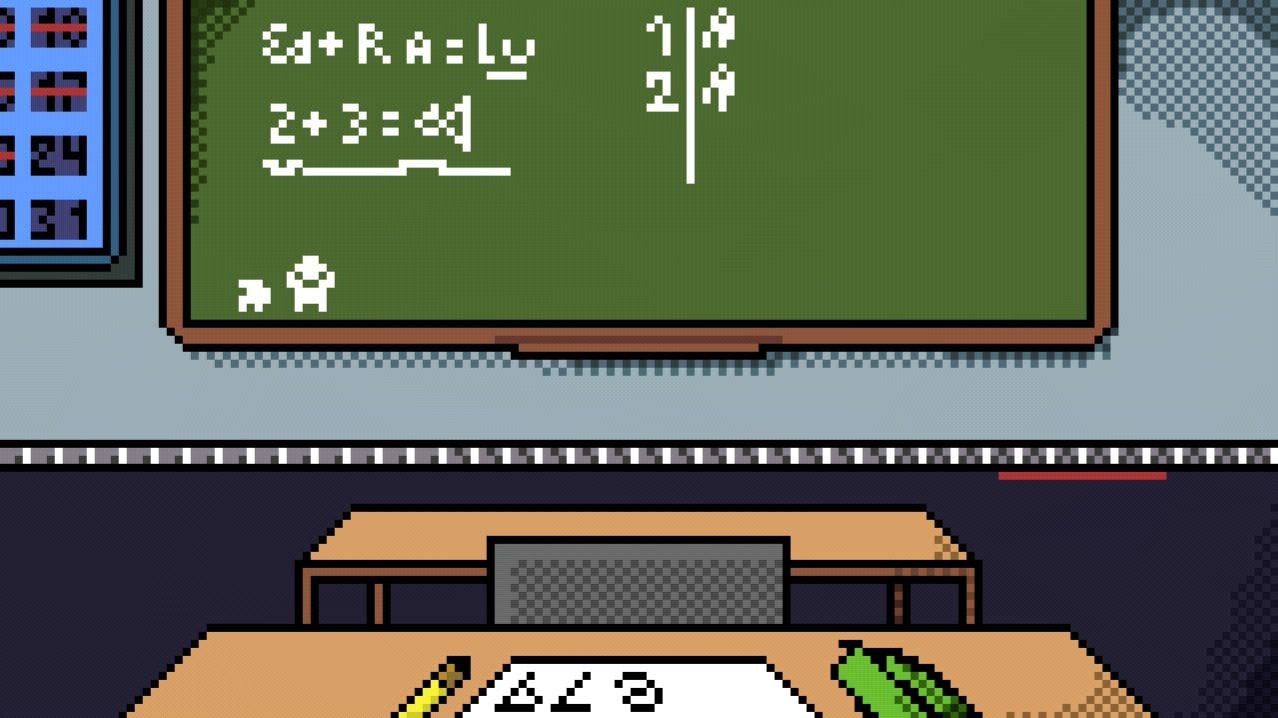
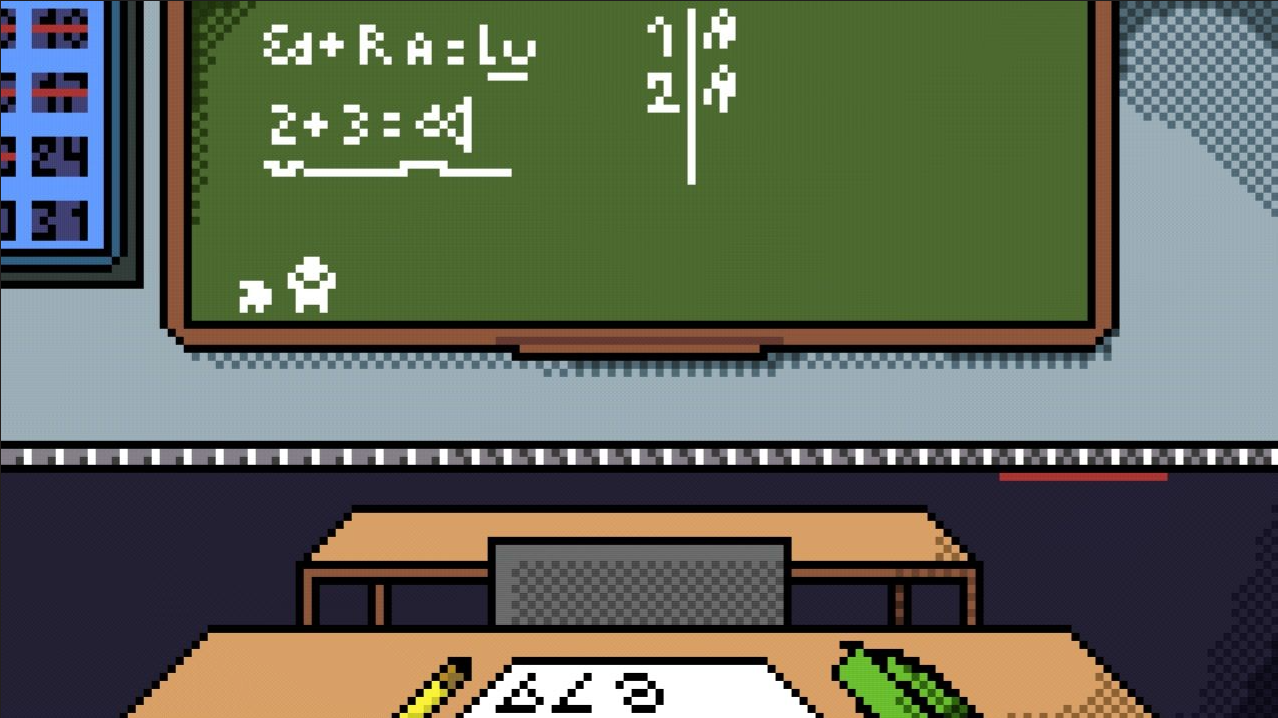
Ajeitei a tela

diff --git a/GAME/src/main.c b/GAME/src/main.c
@@ -1,32 +1,66 @@
 #include "raylib.h"
 #include "sala_de_aula.h"
 
-int main(void) {
+// Funções matemáticas simples para descobrirmos o tamanho do monitor
+#define MAX(a, b) ((a)>(b)? (a) : (b))
+#define MIN(a, b) ((a)<(b)? (a) : (b))
 
-    // Inicializa a janela real do monitor
-    InitWindow(1920, 1080, "Jogo Principal - Sala de Aula");
+int main(void) {
+    // 1. Avisa a Raylib que a janela pode ser redimensionada e deve abrir maximizada
+    SetConfigFlags(FLAG_WINDOW_RESIZABLE | FLAG_WINDOW_MAXIMIZED);
+
+    // 2. Inicia a janela com um tamanho seguro. Como mandamos maximizar, ela vai se
+    //    adaptar sozinha à resolução nativa do monitor de quem abrir o jogo.
+    InitWindow(1280, 720, "Jogo Principal - Sala de Aula");
     SetTargetFPS(60);
 
-    // Inicializa o estado completo da sala de aula.
-    // Aqui passamos a dificuldade da professora (1 = Fácil, 2 = Médio, 3 = Difícil)
+    // 3. A MÁGICA: O "Canvas" Virtual (O jogo acha que é 1080p para sempre)
+    int virtualWidth = 1920;
+    int virtualHeight = 1080;
+    RenderTexture2D canvas = LoadRenderTexture(virtualWidth, virtualHeight);
+
+    // Inicializa a sala de aula normalmente
     InitSalaDeAula(2); 
 
     while (!WindowShouldClose()) {
         // --- ATUALIZAÇÃO (UPDATE) ---
-        // Passa o tempo do frame (deltaTime) para a sala atualizar a professora e os timers
         UpdateSalaDeAula(GetFrameTime());
 
-        // --- DESENHO (DRAW) ---
-        BeginDrawing();
+        // --- DESENHO NO CANVAS VIRTUAL (1920x1080) ---
+        // Aqui o jogo roda intocado, com as mesmas coordenadas de sempre
+        BeginTextureMode(canvas);
             ClearBackground(BLACK);
-
-            // Delega todo o desenho (background, professora, tablet e game over) para o módulo da sala
             DrawSalaDeAula();
+        EndTextureMode();
+
+        // --- DESENHO FINAL NA TELA DO JOGADOR ---
+        BeginDrawing();
+            // Fundo preto para gerar "barras pretas" caso o monitor seja de proporção diferente
+            ClearBackground(BLACK); 
+
+            // Calcula o multiplicador exato para espremer ou esticar a imagem
+            float scale = MIN((float)GetScreenWidth() / virtualWidth, (float)GetScreenHeight() / virtualHeight);
+
+            // A Raylib desenha texturas virtuais de ponta-cabeça por padrão.
+            // Passar a altura negativa (-canvas.texture.height) desvira ela.
+            Rectangle areaOriginal = { 0.0f, 0.0f, (float)canvas.texture.width, -(float)canvas.texture.height };
+            
+            // Calcula o meio da tela para o jogo ficar centralizado
+            Rectangle areaDestino = {
+                (GetScreenWidth() - (virtualWidth * scale)) * 0.5f,
+                (GetScreenHeight() - (virtualHeight * scale)) * 0.5f,
+                virtualWidth * scale,
+                virtualHeight * scale
+            };
+
+            // Desenha a "fita de vídeo" do jogo na tela do usuário
+            DrawTexturePro(canvas.texture, areaOriginal, areaDestino, (Vector2){ 0, 0 }, 0.0f, WHITE);
 
         EndDrawing();
     }
 
-    // Descarrega todas as texturas e subjogos da memória de uma só vez
+    // Limpeza da memória
+    UnloadRenderTexture(canvas);
     UnloadSalaDeAula();
     CloseWindow();
 

diff --git a/GAME/src/sala_de_aula.c b/GAME/src/sala_de_aula.c
@@ -30,50 +30,39 @@ void InitSalaDeAula(int dificuldadeProfessora) {
 }
 
 void UpdateSalaDeAula(float deltaTime) {
-    // 1. Se deu Game Over, só espera o jogador apertar R para reiniciar
     if (gameOverPrincipal) {
         if (IsKeyPressed(KEY_R)) { 
-            InitSalaDeAula(professora.dificuldade); // Reinicia a fase
+            InitSalaDeAula(professora.dificuldade); 
         }
-        return; // Sai da função para o jogo não continuar rodando no fundo
+        return; 
     }
 
-    // ==========================================
-    // 2. ATUALIZAÇÕES INCONDICIONAIS (O mundo continua!)
-    // ==========================================
-    // A professora continua pensando e o gnomo continua correndo,
-    // independentemente de onde o tablet está.
     UpdateProfessora(&professora, deltaTime);
     UpdateSubJogo(); 
 
-    // ==========================================
-    // 3. LÓGICA DA BARRA DE ESPAÇO (Apenas visual)
-    // ==========================================
     if (IsKeyDown(KEY_SPACE)) {
-        posicaoSubJogo = posicaoAbaixado; // Esconde o tablet
+        posicaoSubJogo = posicaoAbaixado; 
         tabletLevantado = false;
     } else {
-        posicaoSubJogo = posicaoBase;     // Mostra o tablet
+        posicaoSubJogo = posicaoBase;     
         tabletLevantado = true;
     }
 
-    // ==========================================
-    // 4. REGRA DE GAME OVER (A Professora te pegou?)
-    // ==========================================
-    // Se ela estiver olhando (Vermelho) E o tablet estiver na sua cara: PERDEU!
     if (professora.estadoAtual == PROFE_OLHANDO && tabletLevantado) {
         gameOverPrincipal = true;
     }
-}
 
-void DrawSalaDeAula(void) {
-    // PASSO A: Renderiza o jogo do Gnomo em background (na textura virtual)
+    // ==========================================
+    // MUDANÇA AQUI: Renderiza o tablet ANTES de desenhar a tela principal!
+    // ==========================================
     BeginTextureMode(telaSubJogo);
         ClearBackground(BLACK);
         DrawSubJogo(); 
     EndTextureMode();
+}
 
-    // PASSO B: Desenha o cenário real da sala de aula
+void DrawSalaDeAula(void) {
+    
     // Proteção caso a textura falhe
     if (backgroundAula.width > 0) {
         DrawTexturePro(

diff --git a/GAME/src/inimigo.c b/GAME/src/inimigo.c
@@ -17,7 +17,7 @@ void InitInimigos(Inimigo inimigos[], int quantidadeAtiva, int screenWidth) {
             // Posição inicial randômica para cada um não nascer grudado
             inimigos[i].x = screenWidth + (i * 300);
             inimigos[i].y = SortearFaixa();
-            inimigos[i].velocidade = 12;
+            inimigos[i].velocidade = 10;
         } else {
             inimigos[i].ativo = false; // Deixa desativado os que sobrarem
         }